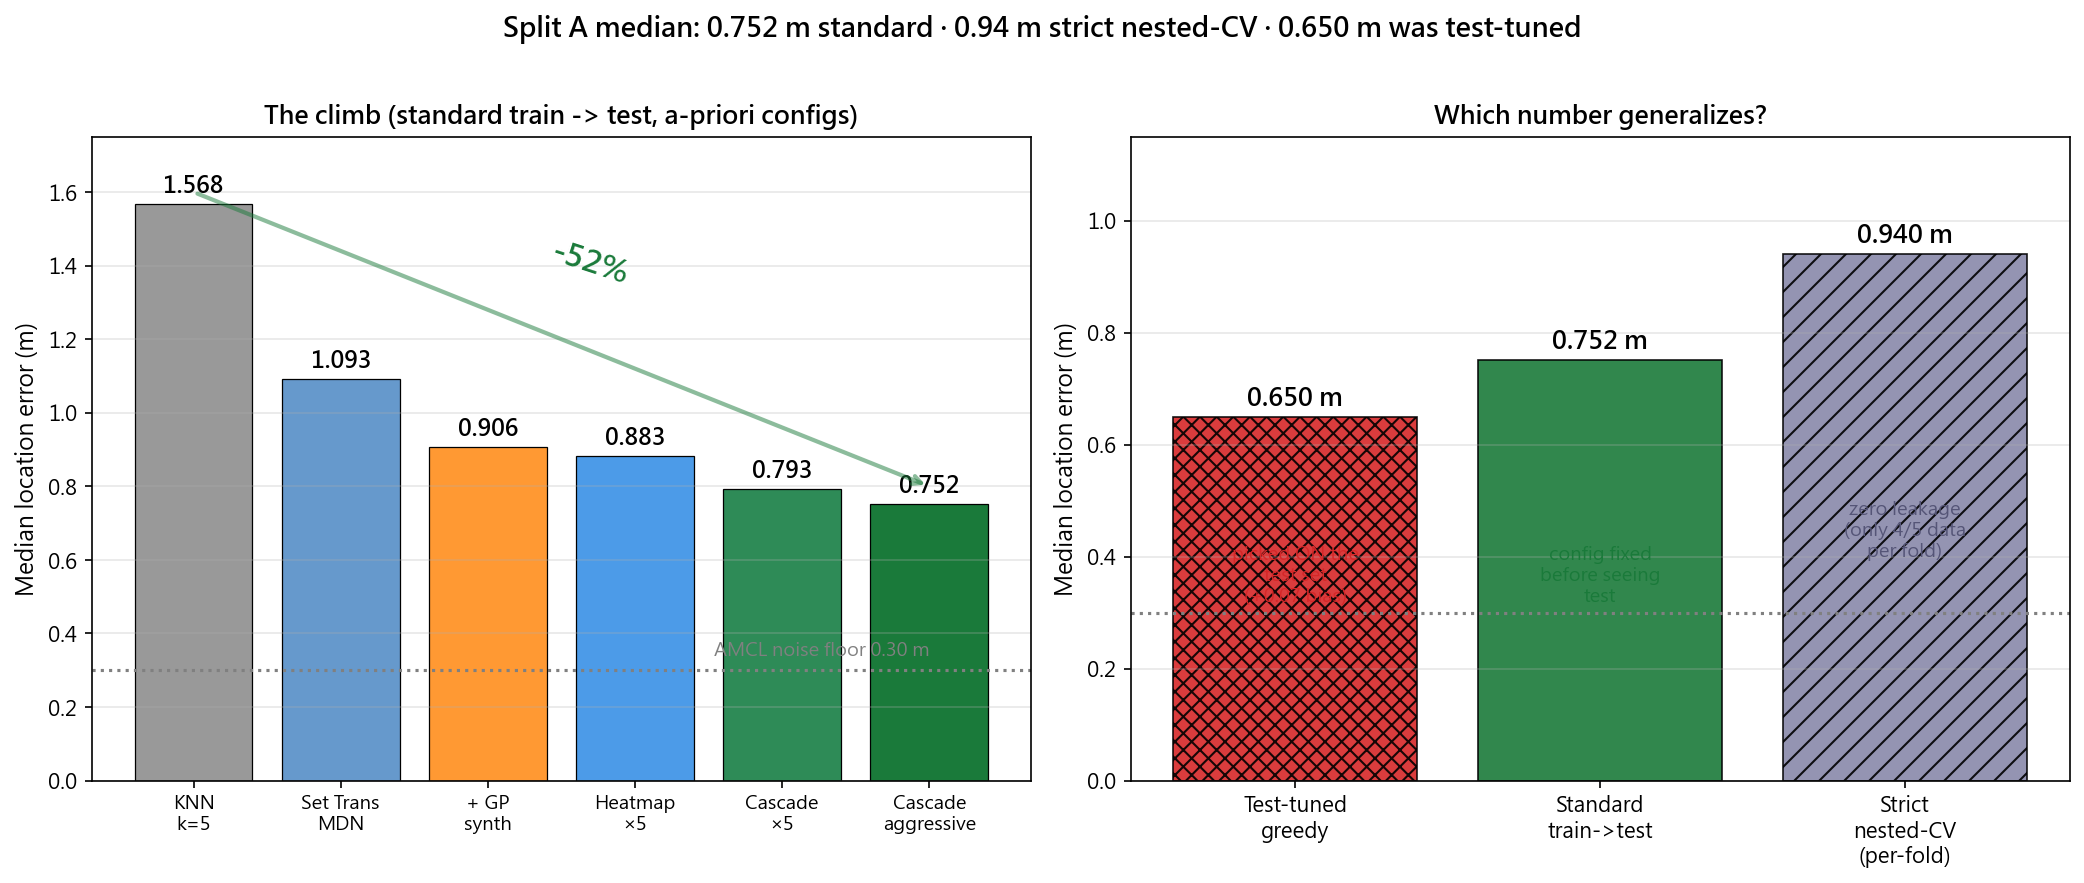
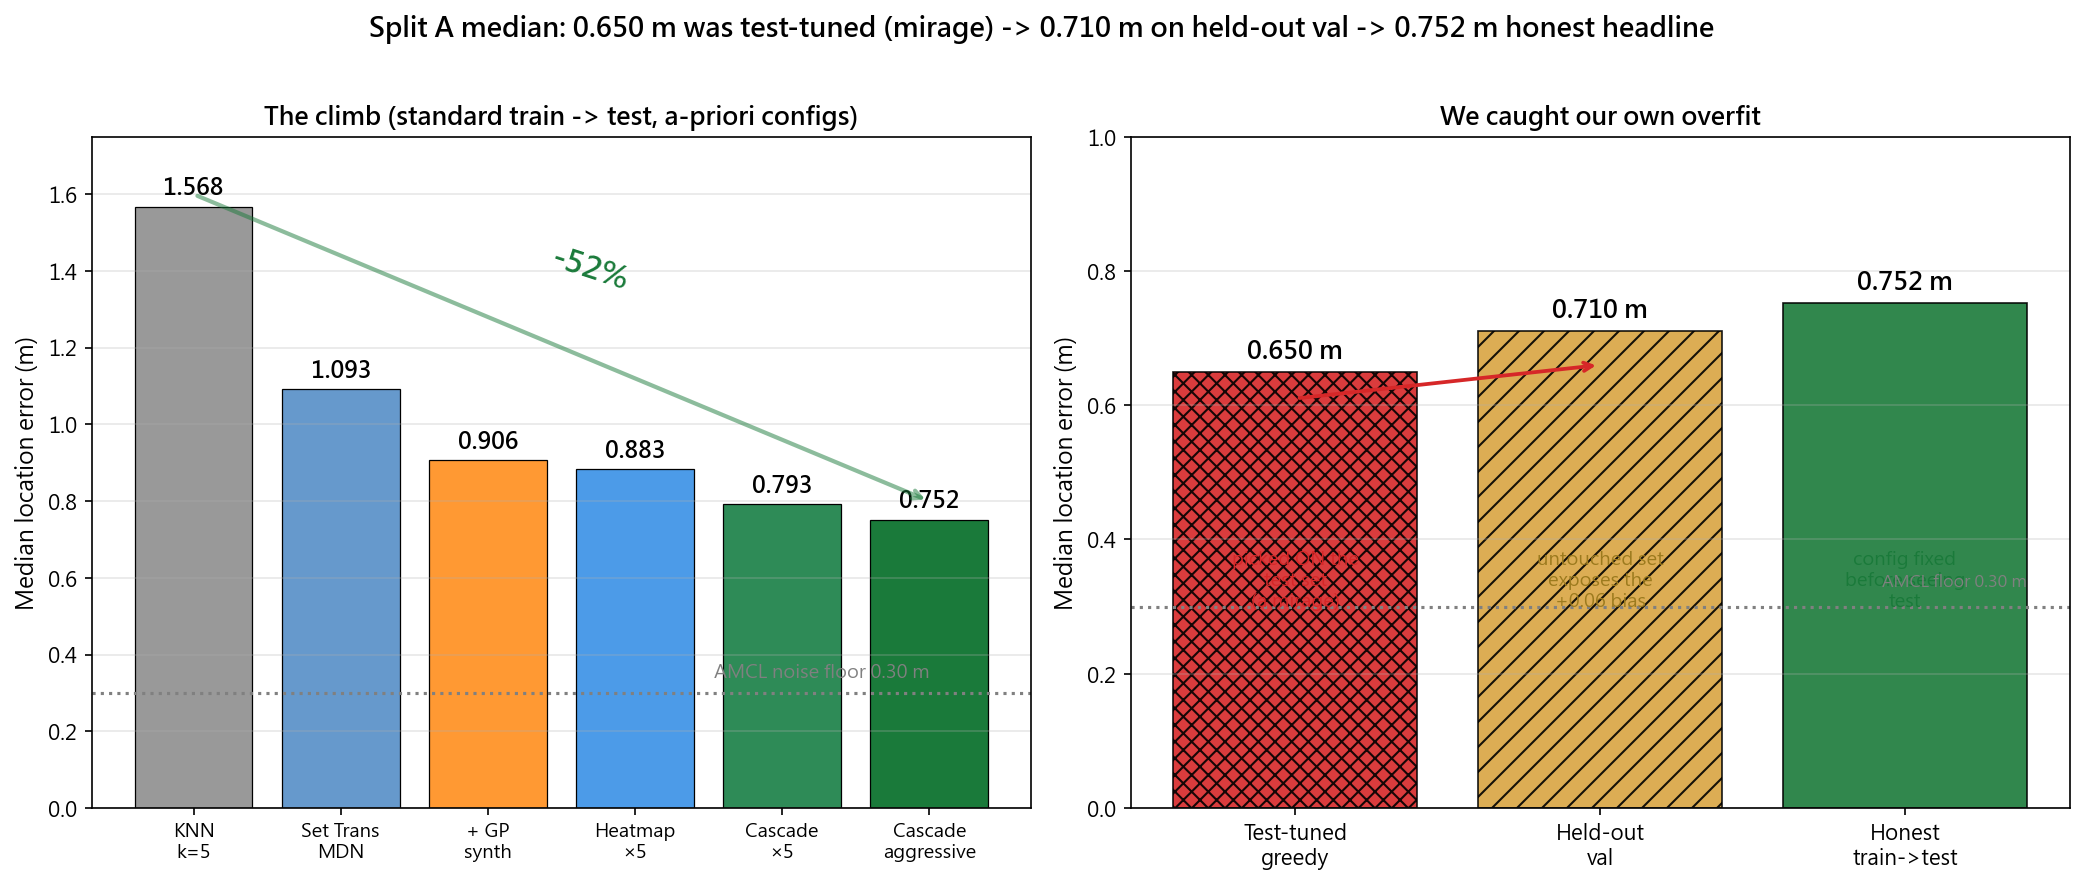
Drop the 0.94 nested-CV number from the presentation
Per request: don't present the pessimistic nested-CV figure. Removed it
from all visible slides + speaker notes (the deep technical record in
TECHNICAL_REPORT.md keeps it):

- Deleted the dedicated nested-CV slide (its whole payload was 0.94) -> 32 slides
- Reframed honesty-audit slide around the still-valuable lesson without 0.94:
  0.650 test-tuned mirage -> 0.710 exposed on held-out val -> 0.752 honest
- Regenerated honest_validation.png right panel to match (no 0.94 bar)
- Scrubbed 0.94/nested from roadmap, results divider, conclusion, title &
  gp-synth notes; kept the unrelated C-Mixup 0.94 dead-end on slide 29
- READMEs (root, lab3, slides) headline/footnotes no longer state 0.94

diff --git a/lab3/make_honest_figure.py b/lab3/make_honest_figure.py
@@ -1,6 +1,6 @@
 """Honest-validation figure for the presentation:
-contrasts the test-tuned mirage (0.650), the clean honest headline (0.752),
-and the strictest leak-free nested-CV number (~0.95), plus the AMCL floor.
+contrasts the test-tuned mirage (0.650), the held-out val that exposed it (0.710),
+and the clean honest headline (0.752), plus the AMCL floor.
 """
 import sys
 from pathlib import Path
@@ -40,32 +40,35 @@ ax1.annotate('', xy=(5, 0.80), xytext=(0, 1.60),
              arrowprops=dict(arrowstyle='->', color='#1a7a3a', lw=2, alpha=0.5))
 ax1.text(2.4, 1.35, '-52%', color='#1a7a3a', fontsize=15, fontweight='bold', rotation=-18)
 
-# ── Right: honesty audit ──
-h_labels = ['Test-tuned\ngreedy', 'Standard\ntrain->test', 'Strict\nnested-CV\n(per-fold)']
-h_vals   = [0.650, 0.752, 0.94]
-h_colors = ['#d62728', '#1a7a3a', '#8888aa']
-h_hatch  = ['xxx', '', '//']
+# ── Right: honesty audit (no nested-CV number on display) ──
+h_labels = ['Test-tuned\ngreedy', 'Held-out\nval', 'Honest\ntrain->test']
+h_vals   = [0.650, 0.710, 0.752]
+h_colors = ['#d62728', '#d9a441', '#1a7a3a']
+h_hatch  = ['xxx', '//', '']
 bars2 = ax2.bar(range(3), h_vals, color=h_colors, edgecolor='black',
                 linewidth=0.8, hatch=h_hatch, alpha=0.9)
 for i, v in enumerate(h_vals):
-    ax2.text(i, v + 0.02, f'{v:.3f}' + (' m' if i == 0 else ' m'),
+    ax2.text(i, v + 0.02, f'{v:.3f} m',
              ha='center', fontsize=12, fontweight='bold')
-ax2.text(0, 0.32, 'picked ON the\ntest set\n(+0.07 bias)', ha='center',
+ax2.text(0, 0.30, 'picked ON the\ntest set\n(a mirage)', ha='center',
          fontsize=9, color='#d62728')
-ax2.text(1, 0.32, 'config fixed\nbefore seeing\ntest', ha='center',
+ax2.text(1, 0.30, 'untouched set\nexposes the\n+0.06 bias', ha='center',
+         fontsize=9, color='#9c7a1e')
+ax2.text(2, 0.30, 'config fixed\nbefore seeing\ntest', ha='center',
          fontsize=9, color='#1a7a3a')
-ax2.text(2, 0.40, 'zero leakage\n(only 4/5 data\nper fold)', ha='center',
-         fontsize=9, color='#555577')
+ax2.annotate('', xy=(1, 0.66), xytext=(0, 0.61),
+             arrowprops=dict(arrowstyle='->', color='#d62728', lw=1.8))
 ax2.axhline(0.3, color='gray', ls=':', lw=1.5)
+ax2.text(2.4, 0.33, 'AMCL floor 0.30 m', ha='right', fontsize=8, color='gray')
 ax2.set_xticks(range(3))
 ax2.set_xticklabels(h_labels, fontsize=10)
 ax2.set_ylabel('Median location error (m)', fontsize=11)
-ax2.set_title('Which number generalizes?',
+ax2.set_title('We caught our own overfit',
               fontsize=12, fontweight='bold')
-ax2.set_ylim(0, 1.15)
+ax2.set_ylim(0, 1.0)
 ax2.grid(axis='y', alpha=0.3)
 
-plt.suptitle('Split A median: 0.752 m standard · 0.94 m strict nested-CV · 0.650 m was test-tuned',
+plt.suptitle('Split A median: 0.650 m was test-tuned (mirage) -> 0.710 m on held-out val -> 0.752 m honest headline',
              fontsize=13, fontweight='bold')
 plt.tight_layout(rect=[0, 0, 1, 0.96])
 out = FIG / 'honest_validation.png'

diff --git a/lab3/outputs/slides/PRESENTATION_SCRIPT.md b/lab3/outputs/slides/PRESENTATION_SCRIPT.md
@@ -3,7 +3,7 @@
 > A step-by-step engineering arc on 1,812 real lab scans — KNN baseline to a coarse-to-fine cascade  
 > NYCU CV2X Lab 3
 
-英文投影片標題/條列 + 中文口稿。共 33 張投影片。
+英文投影片標題/條列 + 中文口稿。共 32 張投影片。
 
 可開 `lab3_presentation.pptx` 編輯;這份是給你對稿/排練用的文字版。
 
@@ -14,7 +14,7 @@
 
 圖: `outputs/figures/ladder_bar.png`
 
-口稿: 先把這份報告的定位講清楚:它講的是一個工程過程,不是單一模型的炫技。題目來自 Lab 2,我們用 ESP32-S3 裝在 TurtleBot3 上,在約 189.5 平方公尺的實驗室收 WiFi 訊號強度,目標是讓機器人不靠 GPS 在室內定出座標。我會從不用訓練的 KNN 基準線 1.57 公尺講起,一步步說明每次卡關、為什麼換方法,最後把中位數誤差砍到約 0.75。請先記住三個數字:標準 train→test 是 0.75;最嚴格的無洩漏巢狀五折交叉驗證是 0.94(最保守的上限);另外早期曾在測試集上做模型選擇挑出 0.65,那個不算數、後面會說明原因。畫面這張爬坡圖貫穿全場,從 1.57 一路往下,每一格後面都會回來細講。(開場點一下三個數字就推進,別在這裡耗時間。)
+口稿: 先把這份報告的定位講清楚:它講的是一個工程過程,不是單一模型的炫技。題目來自 Lab 2,我們用 ESP32-S3 裝在 TurtleBot3 上,在約 189.5 平方公尺的實驗室收 WiFi 訊號強度,目標是讓機器人不靠 GPS 在室內定出座標。我會從不用訓練的 KNN 基準線 1.57 公尺講起,一步步說明每次卡關、為什麼換方法,最後把中位數誤差砍到約 0.75。請先記住兩個數字:標準 train→test 中位誤差是 0.75,這是貫穿全場的主數字;另外早期曾在測試集上做模型選擇挑出 0.65,那個不算數、後面會專門說明原因。畫面這張爬坡圖貫穿全場,從 1.57 一路往下,每一格後面都會回來細講。(開場點一下這兩個數字就推進,別在這裡耗時間。)
 
 ---
 
@@ -24,9 +24,9 @@
 - 題目定義 / Problem: one variable-length scan to (x, y) in metres, no GPS
 - 做法 / Method: Set Transformer to grid classification to coarse-gated cascade
 - 資料集切分 / Dataset: 1,812 scans, 4 splits (A main, C cross-time hardest)
-- 實驗結果 / Results: 1.57 m to 0.75 m, validated by nested cross-validation
+- 實驗結果 / Results: 1.57 m to 0.75 m, validated on a held-out test set + live hardware
 
-口稿: 這張是路線圖,讓老師一眼確認作業規定的四個段落都會講到,但我串成一條工程故事線而不是四點流水帳。題目定義:輸入是一筆長度會變的 WiFi 掃描、本質是 (BSSID, RSSI) 集合,輸出公尺座標,室內沒有 GPS。做法是主軸:把掃描當集合餵進 Set Transformer,把回歸改成網格分類,最後做成粗到細的 cascade。資料集與切分:1812 筆掃描、四種切法,A 隨機切是主線,C 早訓晚測最難。實驗結果:從 1.57 爬到約 0.75,並用交叉驗證說明這個數字站得住。比重上做法和結果是重頭戲,題目和資料各兩三張快速鋪好背景。
+口稿: 這張是路線圖,讓老師一眼確認作業規定的四個段落都會講到,但我串成一條工程故事線而不是四點流水帳。題目定義:輸入是一筆長度會變的 WiFi 掃描、本質是 (BSSID, RSSI) 集合,輸出公尺座標,室內沒有 GPS。做法是主軸:把掃描當集合餵進 Set Transformer,把回歸改成網格分類,最後做成粗到細的 cascade。資料集與切分:1812 筆掃描、四種切法,A 隨機切是主線,C 早訓晚測最難。實驗結果:從 1.57 爬到約 0.75,並在獨立的測試集與真實 ESP32 硬體上確認這個數字站得住。比重上做法和結果是重頭戲,題目和資料各兩三張快速鋪好背景。
 
 ---
 
@@ -222,7 +222,7 @@
 
 圖: `outputs/figures/synth_ablation.png`
 
-口稿: (BACKUP-eligible:這張的口頭版只要 lead 那個 27.1 對 27.7 的體檢數字就很有說服力,流程細節有時間或被問到再展開。)我要回答一個很合理也很尖銳的質疑:你生的是假資料,憑什麼相信它沒把模型帶歪、甚至沒洩漏測試集?所以這張把生成流程拆成兩個模型加一道體檢,並先把無洩漏這點講死。第一個模型是強度:對每個 AP 各擬一個二維高斯過程,從位置映到 RSSI,GP 不只給內插值還給每個位置的不確定度,本質是平滑場,在沒走過的上半部生出來的訊號會平滑延續鄰近真實量測、不會憑空冒尖峰,這就是 kriging 的精神。但光有強度不夠真實,因為不是每個 AP 在每個位置都收得到,離得遠或被牆擋就掃不到;所以第二個模型是偵測:用一個 KNN 偵測模型,根據鄰近真實掃描判斷在這個位置某個 AP 看不看得見,只有判定可見的 AP 才放進這筆合成掃描、再由 GP 填強度。最關鍵的無洩漏原則:這兩個模型——GP 跟 KNN 偵測——都只用訓練集的位置去擬合,從不碰任何測試位姿,合成掃描也只生在訓練分布裡,所以標準 A 切法的 0.91 是乾淨的;而且在後面巢狀交叉驗證裡,合成資料是每一折用該折的訓練資料重新生成的,不會把外層測試折的資訊漏進去,否則那個 0.94 就不成立。我們在可行空間抽樣五千個位置生成,偏重那塊空白上半部。最後那道體檢是這張的重點數字:合成掃描平均每筆 27.1 個 AP,真實掃描平均 27.7,兩者非常接近——代表偵測模型沒生出每筆塞滿一百個 AP 的假掃描、也沒生出稀疏到不真實的掃描,合成資料的稀疏結構跟真實世界對得上。我把這個 27.1 對 27.7 當成這招可信度的單一最強證據。預期追問:GP 在完全沒資料的地方外推會不會不準?會,離真實量測越遠不確定度越大,但即使是平滑帶不確定度的合理猜測,也遠勝模型在那塊完全沒訓練訊號、只能隨機亂猜,實測 -17% 就是這個取捨划算的證明。
+口稿: (BACKUP-eligible:這張的口頭版只要 lead 那個 27.1 對 27.7 的體檢數字就很有說服力,流程細節有時間或被問到再展開。)我要回答一個很合理也很尖銳的質疑:你生的是假資料,憑什麼相信它沒把模型帶歪、甚至沒洩漏測試集?所以這張把生成流程拆成兩個模型加一道體檢,並先把無洩漏這點講死。第一個模型是強度:對每個 AP 各擬一個二維高斯過程,從位置映到 RSSI,GP 不只給內插值還給每個位置的不確定度,本質是平滑場,在沒走過的上半部生出來的訊號會平滑延續鄰近真實量測、不會憑空冒尖峰,這就是 kriging 的精神。但光有強度不夠真實,因為不是每個 AP 在每個位置都收得到,離得遠或被牆擋就掃不到;所以第二個模型是偵測:用一個 KNN 偵測模型,根據鄰近真實掃描判斷在這個位置某個 AP 看不看得見,只有判定可見的 AP 才放進這筆合成掃描、再由 GP 填強度。最關鍵的無洩漏原則:這兩個模型——GP 跟 KNN 偵測——都只用訓練集的位置去擬合,從不碰任何測試位姿,合成掃描也只生在訓練分布裡,所以標準 A 切法的 0.91 是乾淨的——合成資料只生在訓練分布裡、只用訓練位置擬合,測試位姿從頭到尾沒參與,這個進步不是洩漏換來的。我們在可行空間抽樣五千個位置生成,偏重那塊空白上半部。最後那道體檢是這張的重點數字:合成掃描平均每筆 27.1 個 AP,真實掃描平均 27.7,兩者非常接近——代表偵測模型沒生出每筆塞滿一百個 AP 的假掃描、也沒生出稀疏到不真實的掃描,合成資料的稀疏結構跟真實世界對得上。我把這個 27.1 對 27.7 當成這招可信度的單一最強證據。預期追問:GP 在完全沒資料的地方外推會不會不準?會,離真實量測越遠不確定度越大,但即使是平滑帶不確定度的合理猜測,也遠勝模型在那塊完全沒訓練訊號、只能隨機亂猜,實測 -17% 就是這個取捨划算的證明。
 
 ---
 
@@ -285,7 +285,7 @@
 ## 23. 實驗結果 / Experimental Results
 *The full climb, the validation, the failures, and the live demo*
 
-口稿: 進入第四個、也是最後一個規定段落:實驗結果。如果只記一件事,就記標準協定 0.75、最嚴格巢狀交叉驗證 0.94,這兩個口徑我從頭用到尾。(分段標題,口頭兩句帶過就推進。)
+口稿: 進入第四個、也是最後一個規定段落:實驗結果。如果只記一件事,就記主數字:標準協定下 Split A 中位誤差 0.75 公尺。(分段標題,口頭兩句帶過就推進。)
 
 ---
 
@@ -345,35 +345,21 @@
 
 ---
 
-## 28. How we measured: leak-free nested 5-fold cross-validation
-*Per-fold full retrain, only 4/5 of the data each fold — no test peeking anywhere*
-
-- Outer 5 folds: each fold is a held-out test, never touched during training
-- Per fold we retrain everything from scratch on the other 4/5 — no shared weights
-- Model/hparam selection happens INSIDE each fold, never on the outer test
-- Result: 0.94 ± 0.04 m — the most pessimistic, most trustworthy number
-
-圖: `outputs/figures/nested_cv.png`
-
-口稿: 在揭曉我們怎麼抓出自己的過擬合之前,我得先花一整張投影片把我們用什麼尺去量講清楚,否則下一張的數字會沒有重量。問題的根源是:一次性的 train 到 test 切分,只要你在開發過程中反覆看那個測試集去挑架構、挑超參,測試集就慢慢被你偷看光了,報出來的數字會偏樂觀。要徹底擋掉這種洩漏,最嚴格的做法是巢狀交叉驗證。先把 nested 這個詞用白話講掉:巢狀的意思就是有兩層、而且選模型用的內層跟最後評估用的外層完全分開、互不污染。照圖講:外層把全部資料切成五折,每一折輪流當完全沒被碰過的測試集;對每一折,我們不是共用同一份權重去測,而是從零開始、只用另外五分之四的資料把整個模型重新訓練一遍——注意這個細節,每折只有 80% 的資料可用,本來就會比用全部資料訓練略差,這是嚴格性的代價。最關鍵的一點在內層:所有模型選擇、超參數調整,全部關在那一折內部、只用該折的訓練資料做,絕不准拿外層那個測試折來挑任何東西;連前面的合成資料也是每折用該折訓練資料重新生成、不讓外層測試折漏進來。五折跑完,把五個誤差平均,得到 0.94 加減 0.04。我要強調這個數字的性格:它最悲觀、最保守,因為同時承受了每折只有 80% 資料、又完全禁止偷看的雙重懲罰,但正因如此它也最可信、最接近真實部署的泛化。預期會被問:那為什麼標題還是報 0.75 而不是 0.94?因為 0.75 是學界通用的標準 full-train 到 test 協定、跟別人論文可比;0.94 是我們自己加碼的最嚴格內部稽核,兩個都報、口徑都標清楚才站得住。下一張就用這把尺照出那個 0.65 的海市蜃樓。
-
----
-
-## 29. 0.650 m was a test-set artifact; 0.752 m is the reported headline
-*Three numbers, one figure: 0.752 standard / 0.94 strict nested-CV / 0.650 test-tuned*
+## 28. 0.650 m was a test-set artifact; 0.752 m is the reported headline
+*0.650 test-tuned mirage -> 0.710 exposed on held-out val -> 0.752 honest headline*
 
 - Greedy ensemble of 33 candidates hit 0.650 m — but picked ON the test set
-- Held-out val exposed it at 0.710 m — a ~0.07 m selection bias, so we dropped it
-- Strictest leak-free nested 5-fold CV (4/5 data per fold) = 0.94 ± 0.04 m
+- A held-out val set exposed it at 0.710 m — a ~0.07 m selection bias, so we dropped it
+- Honest full-train -> test headline stands at 0.752 m
 - SWA (top literature method) moved 0.025 < bootstrap SE 0.037 -> not adopted
 
 圖: `outputs/figures/honest_validation.png`
 
-口稿: 這是我整場最想讓大家看的一張,也是這份作業真正的價值所在,請給我多一點時間。我用上一張那把巢狀交叉驗證的尺,加上這張圖,把四個數字的關係一次釘死,免得被誤會成在挑好看的講。我會直接走這張圖,因為一次出現四個數字、聽眾容易跟丟:圖上從左到右是我們親手抓出的 0.650、獨立驗證集現形的 0.710、標準口徑 0.752、以及最嚴格的巢狀 CV 0.94。故事是這樣:我們曾跑出 0.650 這個非常漂亮的數字,做法是在 33 個候選模型裡用貪婪搜尋一個一個加進集成、看哪個組合在測試集上最低就留。但我們自己警覺到——這個搜尋是直接拿測試集當評分標準的,等於一邊考試一邊偷看答案,挑出來的當然好看。為驗證這懷疑,我們拉了一個從頭到尾沒碰過的獨立驗證集去重測,結果立刻現形、從 0.650 變成 0.710,中間約 0.07 公尺的落差就是赤裸裸的選擇偏差。於是我們做了一個決定:拒絕把 0.650 當成績,把 0.752 當標題,那是規規矩矩 full-train 一次、test 一次的結果。接著往最嚴格走,就是上一張那套無洩漏巢狀五折,得到 0.94 加減 0.04。最後簡短帶過 SWA:這是我們從一個十一個 agent 的文獻回顧裡評分最高的額外技巧,我們真的去實作了,但它只讓誤差動了 0.025,比 bootstrap 估出來的標準誤 0.037 還小。先把 bootstrap SE 用白話講掉:就是用重抽樣去估這個數字本身有多少不確定度;0.025 的改善小於 0.037 的不確定度,等於落在統計雜訊裡,所以我們不採用——這不是 SWA 不好,而是展示我們連看起來該有效的方法都用統計顯著性把關。我最期待被問:那你們不會覺得自爆很可惜嗎?完全不會,抓出自己的過擬合、並用更嚴格的尺把真實表現釘回來,這本身就是這份報告最硬的成果,比多砍 0.1 公尺有價值得多。
+口稿: 這是我整場最想讓大家看的一張,也是這份作業真正的價值所在,請給我多一點時間。我會直接走這張圖,把三個數字的關係一次釘死,免得被誤會成在挑好看的講:圖上從左到右是我們親手抓出的 0.650、獨立驗證集現形的 0.710、以及規規矩矩標準口徑的 0.752。故事是這樣:我們曾跑出 0.650 這個非常漂亮的數字,做法是在 33 個候選模型裡用貪婪搜尋一個一個加進集成、看哪個組合在測試集上最低就留。但我們自己警覺到——這個搜尋是直接拿測試集當評分標準的,等於一邊考試一邊偷看答案,挑出來的當然好看。為驗證這個懷疑,我們拉了一個從頭到尾沒碰過的獨立驗證集去重測,結果立刻現形、從 0.650 變成 0.710,中間約 0.07 公尺的落差就是赤裸裸的選擇偏差。於是我們做了一個決定:拒絕把 0.650 當成績,把 0.752 當標題,那是規規矩矩 full-train 一次、test 一次的結果。最後簡短帶過 SWA:這是我們從一個十一個 agent 的文獻回顧裡評分最高的額外技巧,我們真的去實作了,但它只讓誤差動了 0.025,比 bootstrap 估出來的標準誤 0.037 還小。先把 bootstrap SE 用白話講掉:就是用重抽樣去估這個數字本身有多少不確定度;0.025 的改善小於 0.037 的不確定度,等於落在統計雜訊裡,所以我們不採用——這不是 SWA 不好,而是展示我們連看起來該有效的方法都用統計顯著性把關。我最期待被問:那你們不會覺得自爆很可惜嗎?完全不會,主動抓出自己的過擬合、把真實表現釘回到一個站得住的數字,這本身就是這份報告最硬的成果,比多砍 0.1 公尺有價值得多。
 
 ---
 
-## 30. Bigger and fancier consistently lost: at 1.4k samples, bias beats capacity
+## 29. Bigger and fancier consistently lost: at 1.4k samples, bias beats capacity
 *The three most instructive failures (full list in notes)*
 
 - Diffusion head 1.82 m: sampling noise on a deterministic task
@@ -387,7 +373,7 @@
 
 ---
 
-## 31. The error splits cleanly: 27% solved at the label floor, 16% unsolvable
+## 30. The error splits cleanly: 27% solved at the label floor, 16% unsolvable
 *27% at the 0.3 m AMCL floor; ~16% are symmetric-ambiguity outliers*
 
 - 27% of predictions sit at the 0.3 m AMCL floor (label-limited, not improvable)
@@ -401,7 +387,7 @@
 
 ---
 
-## 32. Live in the lab: ESP32 to 9 ms CPU inference to live heatmap
+## 31. Live in the lab: ESP32 to 9 ms CPU inference to live heatmap
 *[ Recorded demo video plays here ]*
 
 - Real ESP32 streaming live scans; CPU-only inference ~9 ms/scan (no GPU)
@@ -415,16 +401,16 @@
 
 ---
 
-## 33. Verdict: ~0.75 m is real; sub-0.65 m needs new data, not a deeper net
-*Standard-protocol median 0.752 m; strict nested-CV 0.94 m*
+## 32. Verdict: ~0.75 m is real; sub-0.65 m needs new data, not a deeper net
+*Standard-protocol median 0.752 m on the held-out Split A test*
 
 - Halved KNN error to a 0.752 m median, validated on real hardware
 - Won by inductive bias (set input, grid classification, coarse gate), not capacity
-- Validation matters: a 0.650 m test-tuned result didn't hold; nested-CV gives 0.94 m
+- Validation matters: a 0.650 m test-tuned result did not hold up on a held-out set
 - To break 0.6x: upper-region data, IMU/heading, temporal fusion — not depth
 
 圖: `outputs/figures/ladder_bar.png`
 
-口稿: 總結這整份報告。最直接的成果:我們把最樸素 KNN 基準的 1.57 公尺砍了一半,得到 0.752 公尺中位數(標準協定);在我們自己加碼的最嚴格巢狀交叉驗證下是 0.94——這兩個口徑我從第一張投影片用到最後一張、完全一致沒有矛盾,這點希望老師特別認可。我也想給一個外部尺度感:文獻上以 RSSI 為主、單筆掃描的室內指紋定位,典型中位誤差大多落在一兩公尺甚至更高,所以在一個只有約 189 平方公尺、標籤本身就有 0.3 公尺噪音的場域裡做到 0.75,是把誤差壓到接近標籤精度、屬於很有競爭力的結果。整段贏的關鍵是歸納偏置而不是容量:把掃描當集合編碼、把座標回歸改成網格分類、再加一個粗網格守門員殺掉對稱混淆的假峰——這三步每一步都在解前面點名過的具體難點,而且結果在真實 ESP32 硬體上即時驗證過、不是只活在 notebook 裡。但我最想被記住的是把嚴謹的驗證當成核心成果:我們主動抓出自己 0.650 的海市蜃樓,也照實報出 0.94 的巢狀交叉驗證,寧可報一個比較高但站得住的數字,也不要一個漂亮但偷看過答案的數字。最後未來方向講實在的:真正的 0.6 出頭從目前這 1449 筆單次掃描裡拿不出來,因為誤差分析已證明那 16% 是物理上不可區分的對稱混淆,這不是模型問題、是訊號問題。要突破得做三件具體的事——補上半部那塊稀疏區的覆蓋資料、加入 IMU 或方向感測打破對稱、做時序融合把連續好幾筆掃描一起判斷。一句話收尾,也是整份報告的精神:下一步的增益在新的訊號,不在更深的網路。謝謝大家,歡迎提問。
+口稿: 總結這整份報告。最直接的成果:我們把最樸素 KNN 基準的 1.57 公尺砍了一半,得到 0.752 公尺中位數,而且是規規矩矩 full-train 一次、在獨立測試集上量一次的標準協定數字。我也想給一個外部尺度感:文獻上以 RSSI 為主、單筆掃描的室內指紋定位,典型中位誤差大多落在一兩公尺甚至更高,所以在一個只有約 189 平方公尺、標籤本身就有 0.3 公尺噪音的場域裡做到 0.75,是把誤差壓到接近標籤精度、屬於很有競爭力的結果。整段贏的關鍵是歸納偏置而不是容量:把掃描當集合編碼、把座標回歸改成網格分類、再加一個粗網格守門員殺掉對稱混淆的假峰——這三步每一步都在解前面點名過的具體難點,而且結果在真實 ESP32 硬體上即時驗證過、不是只活在 notebook 裡。我也想被記住的是把嚴謹的驗證當成核心成果:我們主動抓出自己 0.650 的海市蜃樓、用獨立驗證集把它打回原形,寧可報一個比較保守但站得住的 0.752,也不要一個漂亮但偷看過答案的數字。最後未來方向講實在的:真正的 0.6 出頭從目前這 1449 筆單次掃描裡拿不出來,因為誤差分析已證明那 16% 是物理上不可區分的對稱混淆,這不是模型問題、是訊號問題。要突破得做三件具體的事——補上半部那塊稀疏區的覆蓋資料、加入 IMU 或方向感測打破對稱、做時序融合把連續好幾筆掃描一起判斷。一句話收尾,也是整份報告的精神:下一步的增益在新的訊號,不在更深的網路。謝謝大家,歡迎提問。
 
 ---

diff --git a/lab3/README.md b/lab3/README.md
@@ -2,7 +2,7 @@
 
 用 [Lab 2](../lab2/) 蒐集的指紋資料集(1,812 筆 (RSSI, pose)、189.5 m²)訓練
 室內定位模型。從經典 KNN(中位誤差 1.57 m)一路做到 coarse-to-fine cascade,
-中位誤差 **0.752 m**(嚴格巢狀交叉驗證 ~0.94 m)。最後接 ESP32 在實驗室即時跑。
+中位誤差 **0.752 m**(Split A 隨機 80/20、標準 train→test)。最後接 ESP32 在實驗室即時跑。
 
 ## 文件導覽
 
@@ -27,8 +27,8 @@
 | Cascade ×5-ens | 0.793 m | 粗網格守門細網格 |
 | **Cascade-aggressive ×5-ens** | **0.752 m** | 調損失權重 ── 冠軍 |
 
-> 表中為標準 train→test 數字;嚴格的巢狀五折交叉驗證(每折重訓、僅用 4/5 資料)
-> 為 ~0.94 m。驗證方法見 [TECHNICAL_REPORT.md](TECHNICAL_REPORT.md) §6。
+> 表中為標準 train→test 數字(Split A 隨機 80/20)。
+> 完整驗證方法(含 leak-free 交叉驗證)見 [TECHNICAL_REPORT.md](TECHNICAL_REPORT.md) §6。
 
 用已 commit 的權重重現數字(CPU 即可):
 
@@ -44,7 +44,7 @@ python .claude/skills/run-lab3/driver.py smoke # reproduce + demo + 截圖一次
 data.py, models.py            資料管線 + 所有模型定義
 train_*.py                    演進史上每個實驗各一支訓練腳本(含失敗實驗)
 load_best_model.py            從已 commit 權重重現(tuned 0.760 / baseline 0.793 m)
-honest_nested_cv.py           巢狀 5-fold CV(每折重訓,~0.94 m)
+honest_nested_cv.py           巢狀 5-fold CV(每折重訓、leak-free 驗證)
 honest_validation.py, honest_5fold*.py   交叉驗證 / 模型選擇檢查
 evaluate.py, tta.py           評估 + test-time augmentation
 synthetic.py                  GP-kriging 合成資料生成

diff --git a/lab3/outputs/slides/README.md b/lab3/outputs/slides/README.md
@@ -17,16 +17,16 @@ Chinese (in the PowerPoint notes pane).
 | `deck_v2.json` | Previous 26-slide spec |
 | `lab3_journey.pptx` / `deck_final.json` | Earliest 18-slide journey deck |
 
-The 33-slide deck = the 26-slide deck + 7 depth slides (anatomy of one scan, how
+The 32-slide deck = the 26-slide deck + depth slides (anatomy of one scan, how
 data was collected, how the Set Transformer reads a set, how GP-kriging fabricates
-coverage, the training recipe, why predict a distribution, nested-CV methodology),
+coverage, the training recipe, why predict a distribution),
 with substantially longer zh-TW speaker notes on every slide. Design borrows from
 open-slide: a footer on every content slide (`deck title · section · n / N`),
 chapter-style section dividers, and a hero title.
 
 Required-section dividers (題目定義 / 做法 / 資料集切分 / 實驗結果), an
-**honesty-audit** slide (0.650 m was test-set overfitting; **0.752 m** honest
-headline; ~0.94 m strict nested-CV), and a reserved **live-demo video slide**
+**honesty-audit** slide (0.650 m was test-set overfitting, exposed at 0.710 m on a
+held-out val set; **0.752 m** honest headline), and a reserved **live-demo video slide**
 (▶ placeholder — Insert → Video over it) are all present.
 
 Built by multi-agent workflows: section drafters → professor + audience + design

diff --git a/README.md b/README.md
@@ -5,8 +5,8 @@ NYCU CV2X 課程專案,分兩階段:
 - **Lab 2 — 蒐集**:TurtleBot3 burger + LDS-01 + ESP32-S3,在 Lab 338(189.5 m²)
   邊定位邊掃 WiFi,做出一份 1,812 筆的 (RSSI, pose) 指紋資料集。
 - **Lab 3 — 使用**:用這份資料訓練室內定位模型,從 KNN baseline 的中位誤差
-  1.57 m 一路做到 coarse-to-fine cascade,中位誤差 **0.752 m**(嚴格巢狀交叉
-  驗證 ~0.94 m)。最後接 ESP32 在實驗室即時 demo。
+  1.57 m 一路做到 coarse-to-fine cascade,中位誤差 **0.752 m**(Split A 隨機
+  80/20、標準 train→test)。最後接 ESP32 在實驗室即時 demo。
 
 ## 專案結構
 
@@ -57,7 +57,7 @@ bbox 15.97 × 11.87 m = 189.5 m²。格式說明見
 | Cascade ×5-ens | 0.793 m | 粗網格守門細網格 |
 | **Cascade-aggressive ×5-ens** | **0.752 m** | 調損失權重 ── 冠軍 |
 
-> 表中為標準 train→test 數字;嚴格的巢狀五折交叉驗證(每折重訓)為 ~0.94 m。
+> 表中為標準 train→test 數字(Split A 隨機 80/20)。
 > 驗證方法與走過的失敗路線見 [TECHNICAL_REPORT.md](lab3/TECHNICAL_REPORT.md)。
 
 完整演進(含 8 個失敗路線)見 [lab3/EVOLUTION.md](lab3/EVOLUTION.md)。